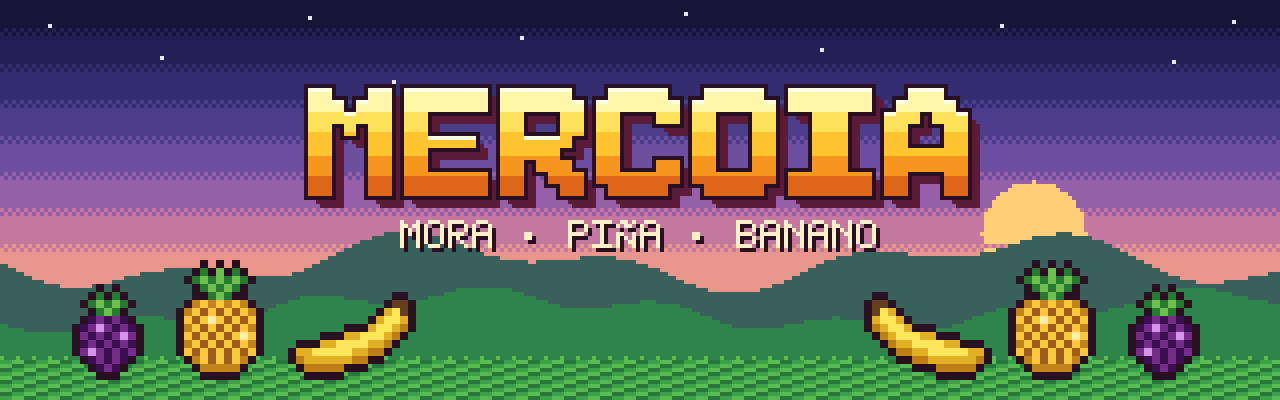
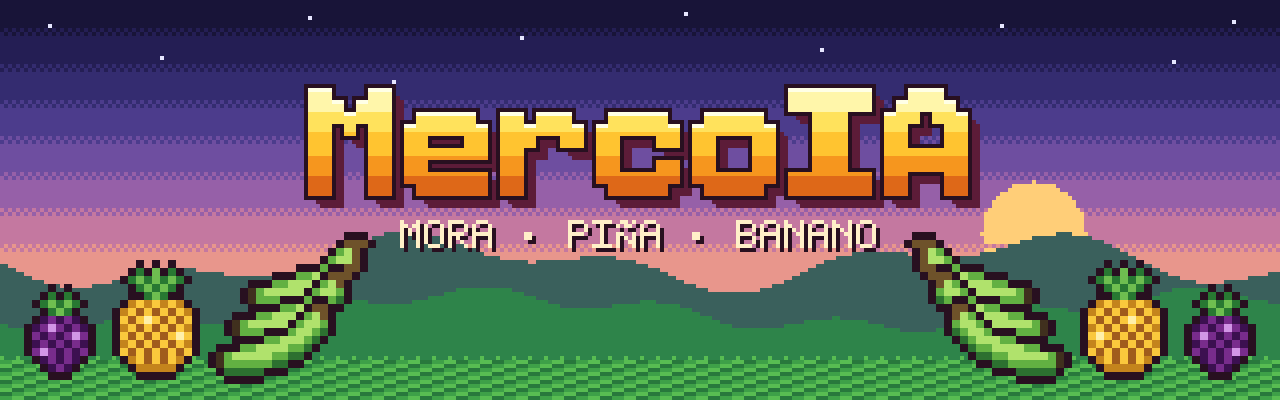
feat: new image

diff --git a/assets/portada.py b/assets/portada.py
@@ -19,6 +19,11 @@ GRANDE = {
   "O": ["0111110", "1111111", "1100011", "1100011", "1100011", "1100011", "1100011", "1111111", "0111110"],
   "I": ["1111111", "1111111", "0011100", "0011100", "0011100", "0011100", "0011100", "1111111", "1111111"],
   "A": ["0011100", "0111110", "1110111", "1100011", "1100011", "1111111", "1111111", "1100011", "1100011"],
+  # minúsculas: altura de x de 7 filas, apoyadas en la misma línea base que las mayúsculas
+  "e": ["0000000", "0000000", "0111110", "1111111", "1100011", "1111111", "1100000", "1111111", "0111111"],
+  "r": ["0000000", "0000000", "1101110", "1111111", "1110011", "1100000", "1100000", "1100000", "1100000"],
+  "c": ["0000000", "0000000", "0111110", "1111111", "1100011", "1100000", "1100011", "1111111", "0111110"],
+  "o": ["0000000", "0000000", "0111110", "1111111", "1100011", "1100011", "1100011", "1111111", "0111110"],
 }
 # Fuente 5x7 para el subtítulo
 CHICA = {
@@ -129,22 +134,41 @@ MORA = ["...g.g...", "..gGgGg..", "...gGg...", "..pPpPp..", ".pPwPpPp.", ".PpPpP
 PAL_MORA = {"g": (40, 120, 50), "G": (110, 190, 80), "p": (60, 16, 80), "P": (120, 44, 140), "w": (210, 150, 230)}
 PINA = ["...g.G.g...", "..gGgGgGg..", "...gGgGg...", "....gGg....", "..yYyYyYy..", ".yYoYoYoYy.", ".YoYwYoYoY.", ".yYoYoYoYy.", ".YoYoYoYwY.", ".yYoYoYoYy.", ".YoYoYoYoY.", "..yYoYoYy..", "...yyyyy..."]
 PAL_PINA = {"g": (40, 120, 50), "G": (110, 190, 80), "y": (196, 132, 28), "Y": (250, 200, 60), "o": (160, 92, 28), "w": (255, 240, 170)}
-BANANO = ["............kk", "...........yYk", "..........yYYy", ".........yYYyd", "......yyYYYyd.", "...yyYYYYyyd..", "yyYYYYYyydd...", "dyyyyyydd.....", ".ddddd........"]
-PAL_BANANO = {"k": (96, 64, 30), "y": (226, 176, 36), "Y": (255, 230, 90), "d": (190, 126, 24)}
+DEDO = ["............kk", "...........gGk", "..........gGGg", ".........gGGgd", "......ggGGGgd.", "...ggGGGGggd..",
+        "tgGGGGGggdd...", "tggggggdd.....", ".ddddd........"]               # un banano: punta oscura a la izquierda, tallo arriba
+PAL_RACIMO = {"G": (176, 226, 108), "g": (98, 176, 66), "d": (44, 112, 48), "k": (110, 82, 42), "t": (64, 48, 30),
+              "o": CONTORNO}
+
+
+def racimo():
+  """Mano de tres bananos verdes apilados que salen del mismo tallo; cada uno con su contorno para que se separen."""
+  dedos = [(4, 0), (2, 4), (0, 8)]                    # de atrás hacia adelante
+  g = [["."] * 19 for _ in range(17)]
+  for ox, oy in dedos:
+    celdas = {(x + ox, y + oy): ch for y, fila in enumerate(DEDO) for x, ch in enumerate(fila) if ch != "."}
+    for (x, y) in celdas:                             # contorno propio: tapa el banano de atrás
+      for dx, dy in ((1, 0), (-1, 0), (0, 1), (0, -1)):
+        q = (x + dx, y + dy)
+        if q not in celdas and 0 <= q[0] < 19 and 0 <= q[1] < 17 and g[q[1]][q[0]] != ".":
+          g[q[1]][q[0]] = "o"
+    for (x, y), ch in celdas.items():
+      g[y][x] = ch
+  for x, y in [(17, 0), (18, 0), (17, 1), (17, 2), (16, 3), (16, 4), (17, 3)]:   # tallo que une los dedos
+    g[y][x] = "k"
+  return ["".join(f) for f in g]
 
 
 def main():
   img = Image.new("RGB", (W, H))
   fondo(img)
-  texto_grande(img, "MERCOIA", None, 22, esc=3, sep=3)
+  texto_grande(img, "MercoIA", None, 22, esc=3, sep=3)
   texto_chico(img, "MORA · PIÑA · BANANO", 55, (255, 240, 200))
-  # frutas sobre el pasto (base en y≈93), a la izquierda y a la derecha del título
-  sprite(img, 18, 73, MORA, PAL_MORA)
-  sprite(img, 44, 67, PINA, PAL_PINA)
-  sprite(img, 74, 75, BANANO, PAL_BANANO)
-  sprite(img, 218, 75, [f[::-1] for f in BANANO], PAL_BANANO)   # espejo
-  sprite(img, 252, 67, PINA, PAL_PINA)
-  sprite(img, 282, 73, MORA, PAL_MORA)
+  # frutas sobre el pasto (base en y≈93), a la izquierda del título y en espejo a la derecha
+  rac = racimo()
+  izquierda = [(6, 73, MORA, PAL_MORA), (28, 67, PINA, PAL_PINA), (54, 94 - 2 * len(rac), rac, PAL_RACIMO)]
+  for x, y, filas, pal in izquierda:
+    sprite(img, x, y, filas, pal)
+    sprite(img, W - x - 2 * len(filas[0]), y, [f[::-1] for f in filas], pal)
   img.resize((W * ESCALA, H * ESCALA), Image.NEAREST).save(SALIDA)
   print("portada:", SALIDA)
 
